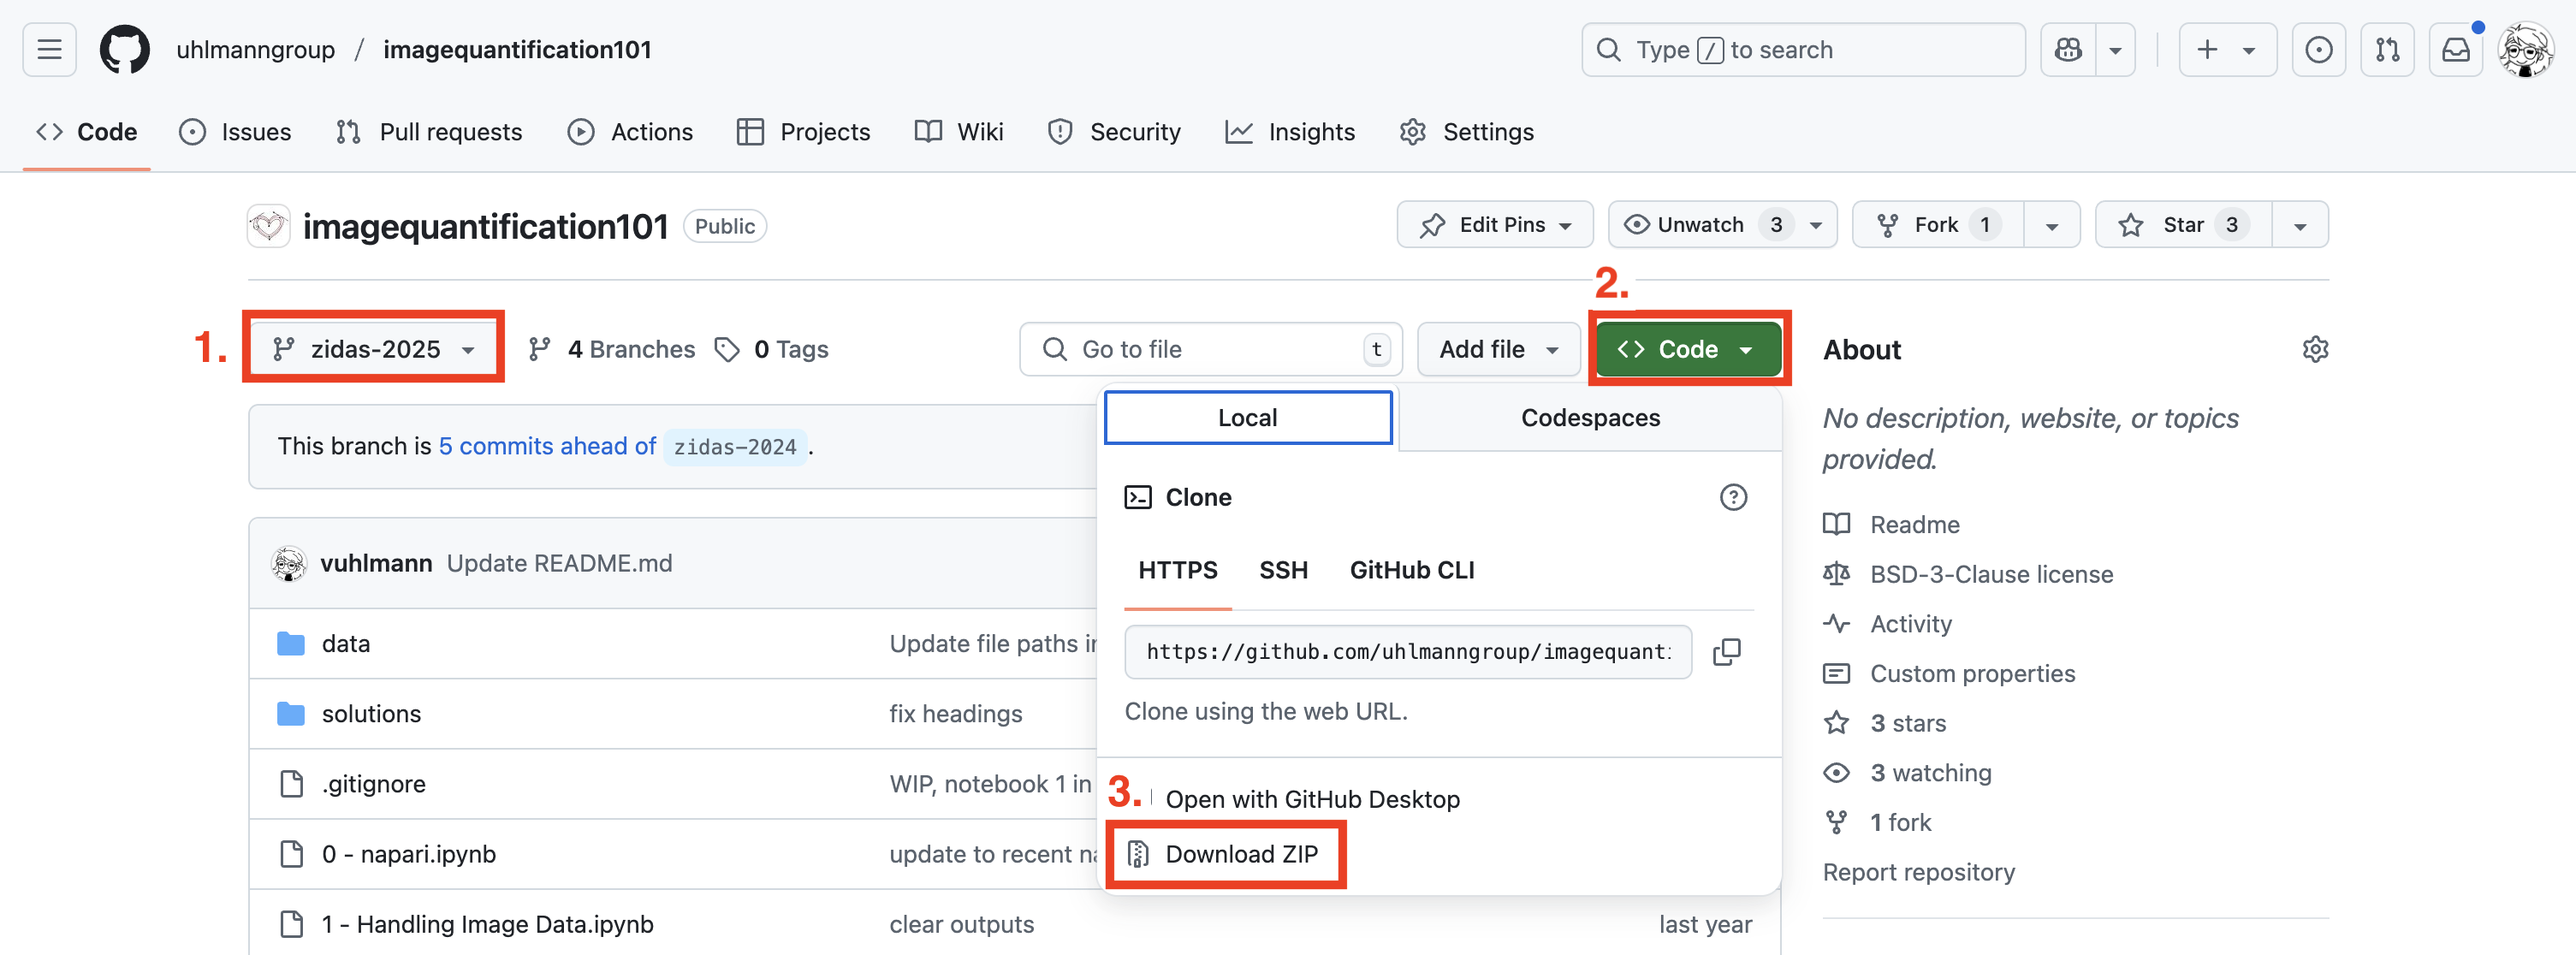
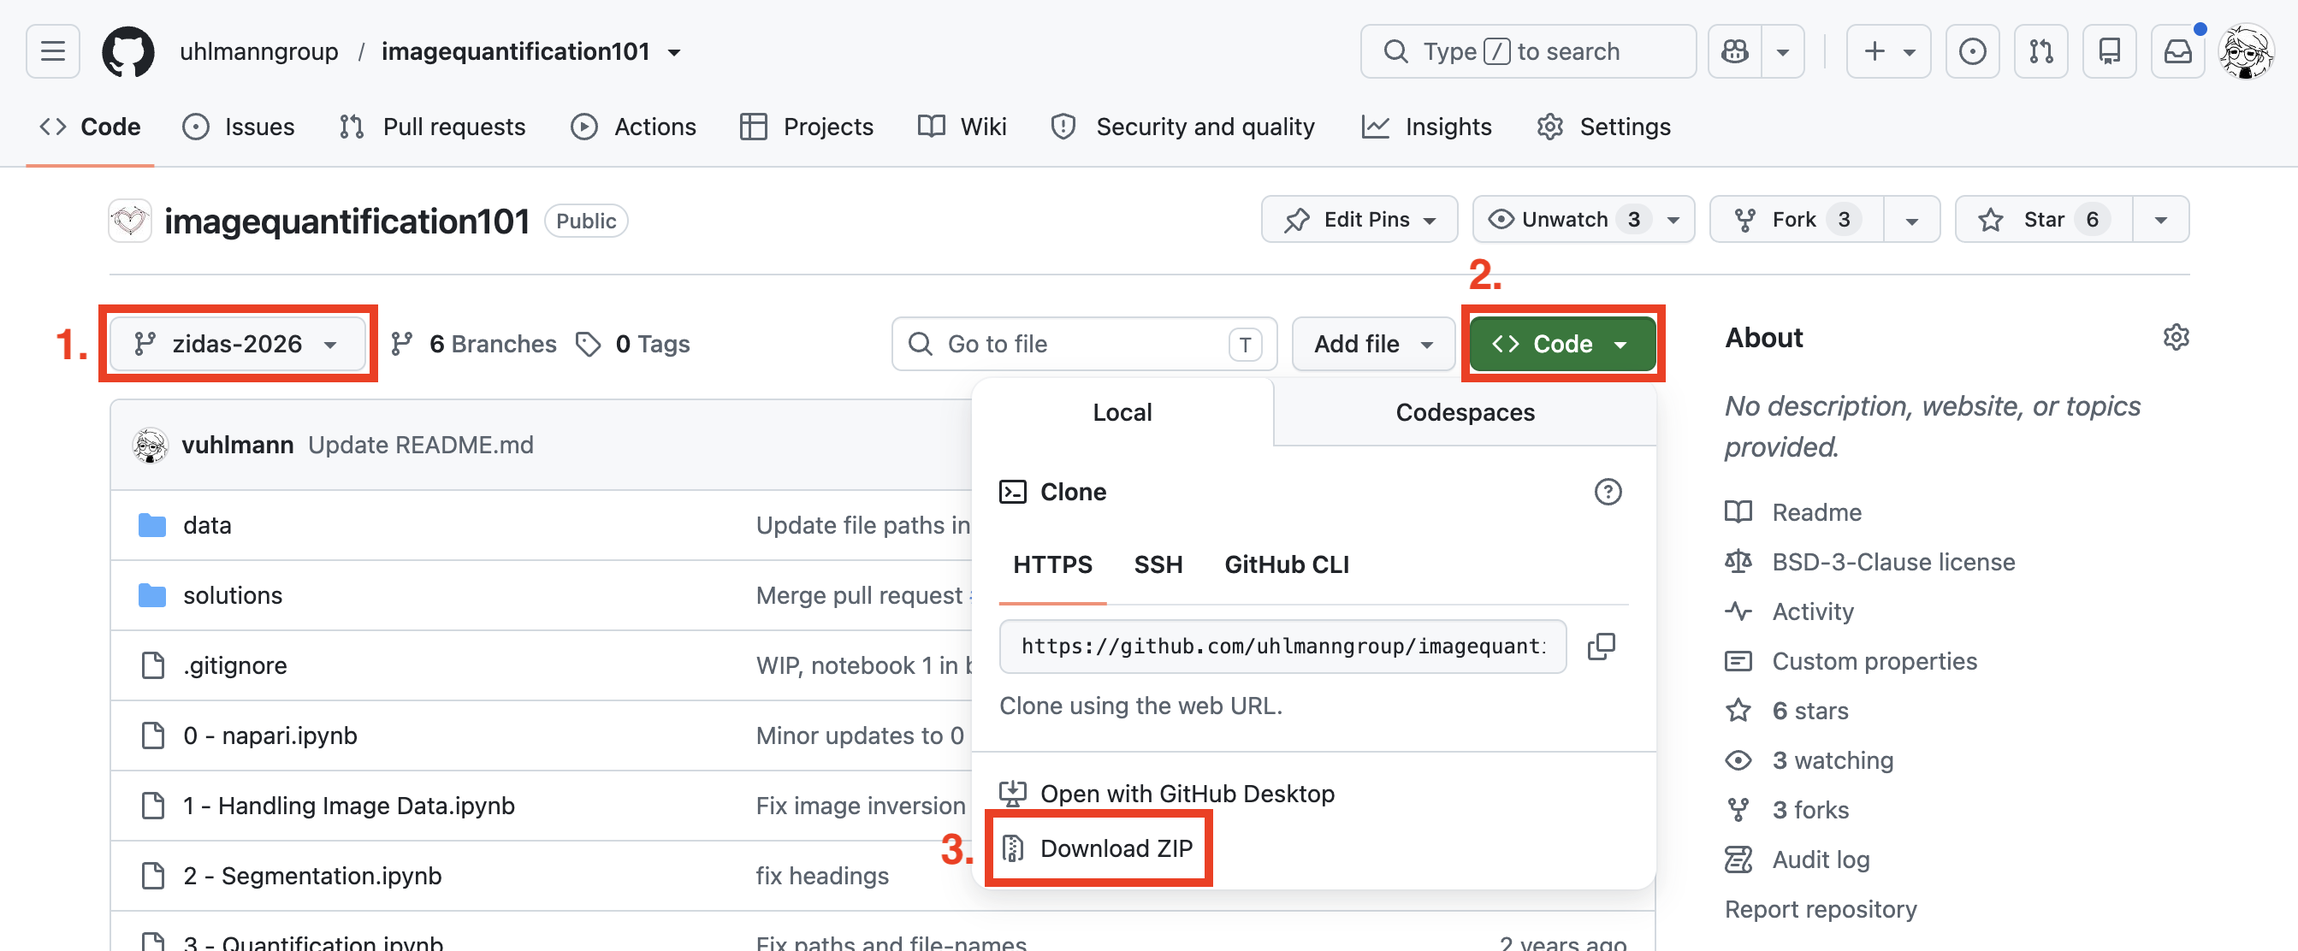
2026 update

diff --git a/README.md b/README.md
@@ -2,7 +2,7 @@
 
 ## Python Setup
 
-To ensure a smooth start into the Python session at ZIDAS 2025 we require you to prepare a conda environment. A conda environment is a special directory which contains all required dependencies to run Python and follow the planned Python session. Luckily you don't have to create this environment by hand. We will use the conda package manager to build the environment. If you have anaconda or miniforge already installed on your computer you can skip the first part and directly move on to the environment creation. Otherwise follow the miniforge install instructions first.
+To ensure a smooth start into the Python session at ZIDAS 2026 we require you to prepare a conda environment. A conda environment is a special directory which contains all required dependencies to run Python and follow the planned Python session. Luckily you don't have to create this environment by hand. We will use the conda package manager to build the environment. If you have anaconda or miniforge already installed on your computer you can skip the first part and directly move on to the environment creation. Otherwise follow the miniforge install instructions first.
 
 ### Install miniforge
 Miniforge is our recommended environment manager for Python environments. Please download the version which fits your operation system from [here](https://github.com/conda-forge/miniforge?tab=readme-ov-file#download) and follow the respective install instructions:
@@ -52,23 +52,23 @@ commands:
 
 ```
 
-### Create ZIDAS2025 Environment
+### Create ZIDAS2026 Environment
 Download this GitHub repository:
 ![download_zip](./git-download-zip.png)
-1. Make sure that you have the zidas-2025 branch selected.
+1. Make sure that you have the zidas-2026 branch selected.
 2. Click on the green `Code` button.
 3. Click on `Download ZIP`.
 4. Unpack the downloaded ZIP file.
 
-From inside your open terminal or Minifroge Prompt change into the unpacked directory. If you extracted the setup material in your `Downloads` directory you would now change to `Downloads/imagequantification101-zidas-2025`.
+From inside your open terminal or Minifroge Prompt change into the unpacked directory. If you extracted the setup material in your `Downloads` directory you would now change to `Downloads/imagequantification101-zidas-2026`.
 
-__Windows:__ `cd Downloads\imagequantification101-zidas-2025`
+__Windows:__ `cd Downloads\imagequantification101-zidas-2026`
 
-__MacOS/Linux:__ `cd Downloads/imagequantification101-zidas-2025`
+__MacOS/Linux:__ `cd Downloads/imagequantification101-zidas-2026`
 
-Now we can create the environment with conda from the `zidas2025_env.yaml` file. Run the following command:
+Now we can create the environment with conda from the `zidas2026_env.yaml` file. Run the following command:
 ```commandline
-conda env create -f zidas2025_env.yaml
+conda env create -f zidas2026_env.yaml
 ```
 
 Executing this command might take some time, but once it finishes you should see the following:
@@ -82,7 +82,7 @@ Executing transaction: done
 
 To verify that everything worked run the following two commands:
 ```
-conda activate zidas2025
+conda activate zidas2026
 napari
 ```
 
